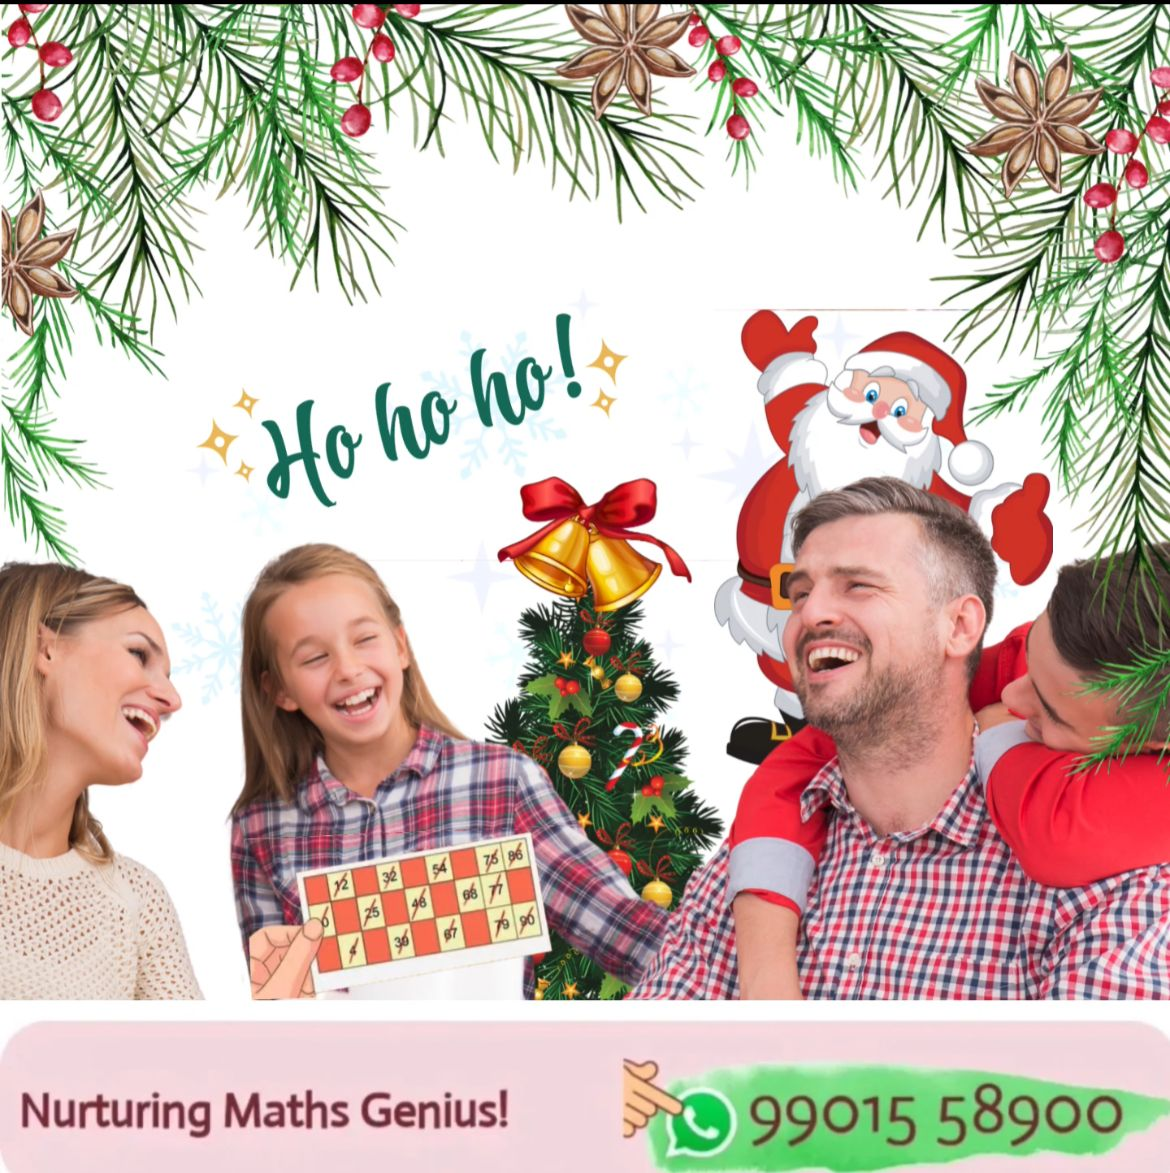
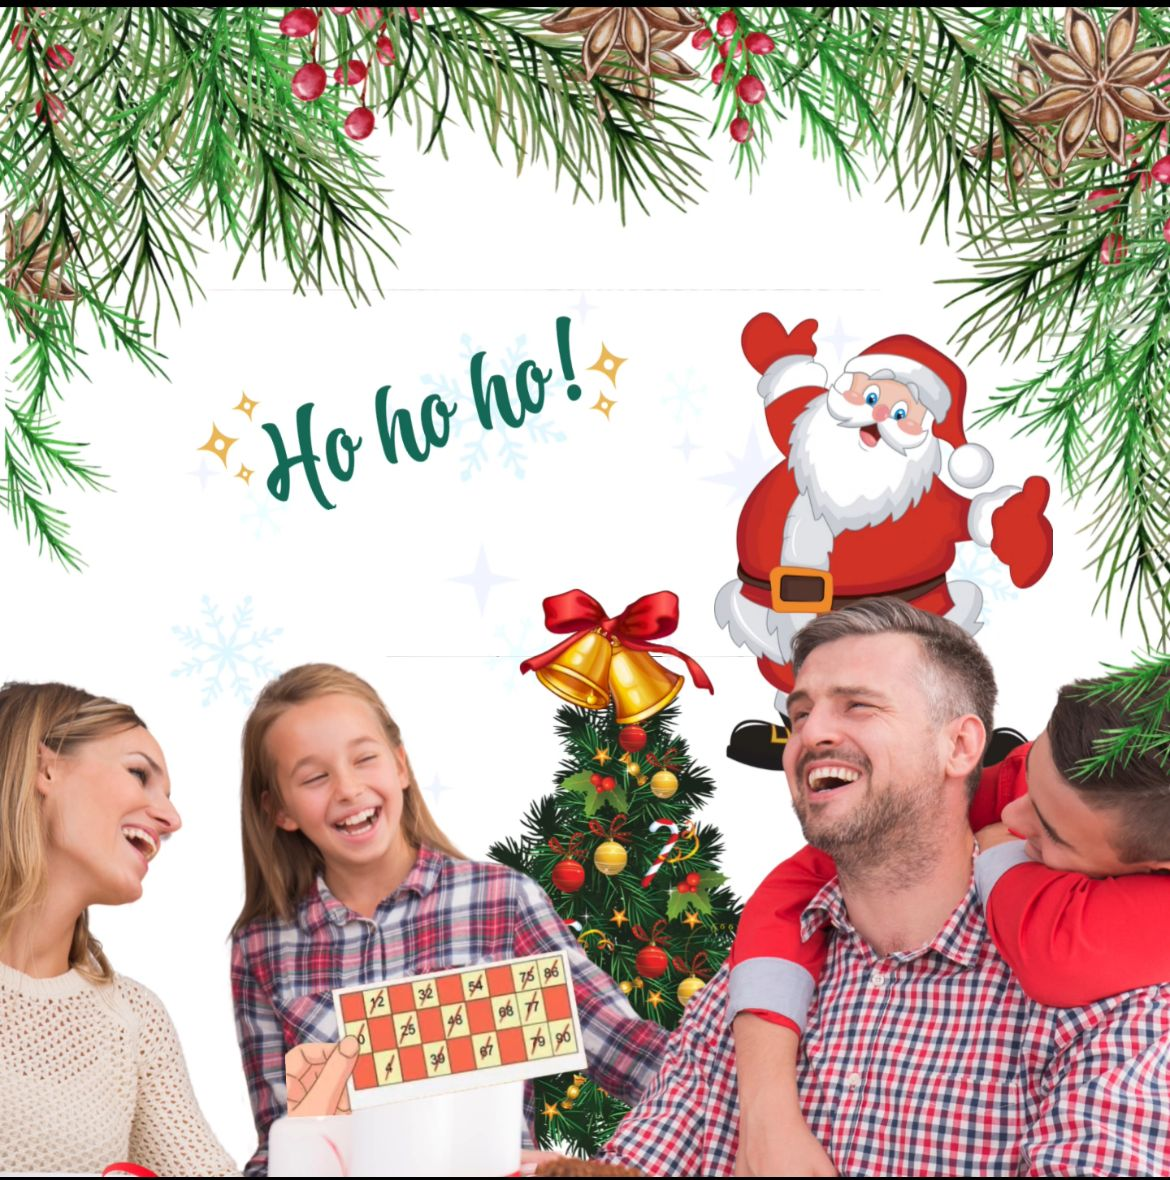
Html file and Images are changed!

diff --git a/index.html b/index.html
@@ -33,12 +33,11 @@
 
     <!-- Hero Section with Background Image -->
     <section class="flex flex-col">
-        <div class="up-content lg:w-full h-1/2 lg:bg-cover lg:py-14">
+        <div class="up-content y-4 lg:w-full h-1/2 lg:bg-cover lg:py-14">
             <br class="text-[#17398f] leading-3">
-                <span class="title1 text-[#17398f] font-bold md:pl-5 md:text-5xl lg:text-7xl sm:text-xl sm:pl-2 sm:text-2xl">This Christmas bring your Family </span><br>
-                <span  class="title2 text-[#17398f] font-bold md:pl-5 md:text-5xl lg:text-7xl sm:text-xl sm:pl-2 leading-5 sm:text-2xl">together with a round of</span><br><br>
-                <span id="slogan" class="text-[#813b40] lg:text-4xl lg:pb-10 lg:pl-5 md:text-2xl md:pl-5 sm:text-xl font-medium sm:pl-2">Maths Housie!!</span>
-            </h2>
+                <span class="title1 text-[#17398f] font-bold md:pl-5 md:text-5xl lg:text-6xl sm:text-2xl sm:pl-2 sm:text-[22px]">This Christmas bring your Family </span><br>
+                <span  class="title2 text-[#17398f] font-bold md:pl-5 md:text-5xl lg:text-6xl lg:mt-4 sm:text-2xl sm:pl-2 leading-loose sm:text-[21px]">together with a round of</span><br><br>
+                <span id="slogan" class="text-[#813b40] lg:text-6xl lg:pb-15 lg:pl-5 md:text-2xl md:pl-5 sm:text-xl sm:pt-0 font-bold sm:pl-2">Maths Housie!!</span>
         </div>
         <div class="down-content w-full h-1/2 flex lg:flex-row sm:flex-col items-center p-10 sm:p-8">
             <div class="w-[40%] flex justify-center sm:w-[80%]">
@@ -64,9 +63,9 @@
         <!-- Heading and Subheading -->
         <div class="max-w-full lg:max-w-[50%] xl:max-w-[30%] mb-8 lg:mb-12 mx-auto lg:mx-0 text-center lg:text-left">
           <h2 class="text-3xl sm:text-4xl lg:text-5xl font-extrabold mb-4 leading-tight text-[#17398f] font-Actor">
-            Why You Have to Participate in this Event?
+            Why should you participate in our Christmas Maths Housie?
           </h2>
-          <p class="text-base sm:text-lg lg:text-xl text-[#813b40] mb-8 font-Actor">
+          <p class="text-base font-bold sm:text-lg lg:text-xl text-[#813b40] mb-8">
             Empowering Your Child’s Math Journey: How Your Involvement Builds Confidence, Curiosity, and Connection
           </p>
         </div>
@@ -78,10 +77,10 @@
             <div class="mb-4">
               <img src="/Icon/Icon 1.jpg" alt="Strategy & Research Icon" class="w-[150px] h-[150px] rounded">
             </div>
-            <h3 class="text-lg font-semibold mb-2 font-Roboto text-[#17398f]">
+            <h3 class="text-xl font-semibold mb-2 font-Roboto text-[#17398f]">
               Confidence through Support
             </h3>
-            <p class="text-sm text-[#813b40] font-Actor">
+            <p class="text-lg text-[#813b40] font-bold">
               When family supports the Child's Maths, the child is encouraged and understands the importance of Maths.
             </p>
           </div>
@@ -91,10 +90,10 @@
             <div class="mb-4">
               <img src="/Icon/Icon 2.jpg" alt="Web Design Icon" class="w-[150px] h-[150px] rounded">
             </div>
-            <h3 class="text-lg font-semibold mb-2 font-Roboto text-[#17398f]">
+            <h3 class="text-xl font-semibold mb-2 font-Roboto text-[#17398f]">
               Stress-Free Skill Building
             </h3>
-            <p class="text-sm text-[#813b40] font-Actor">
+            <p class="text-lg text-[#813b40] font-bold">
               Children get to showcase thinking skills without the pressure of exams and grades.
             </p>
           </div>
@@ -104,10 +103,10 @@
             <div class="mb-4">
               <img src="/Icon/Icon 3.jpg" alt="Web Development Icon" class="w-[150px] h-[150px] rounded">
             </div>
-            <h3 class="text-lg font-semibold mb-2 font-Roboto text-[#17398f]">
+            <h3 class="text-xl font-semibold mb-2 font-Roboto text-[#17398f]">
               Fresh Insights into Your Child’s Abilities
             </h3>
-            <p class="text-sm text-[#813b40] font-Actor">
+            <p class="text-lg text-[#813b40] font-bold">
               Parents gain new perspectives on their children’s abilities in Maths.
             </p>
           </div>
